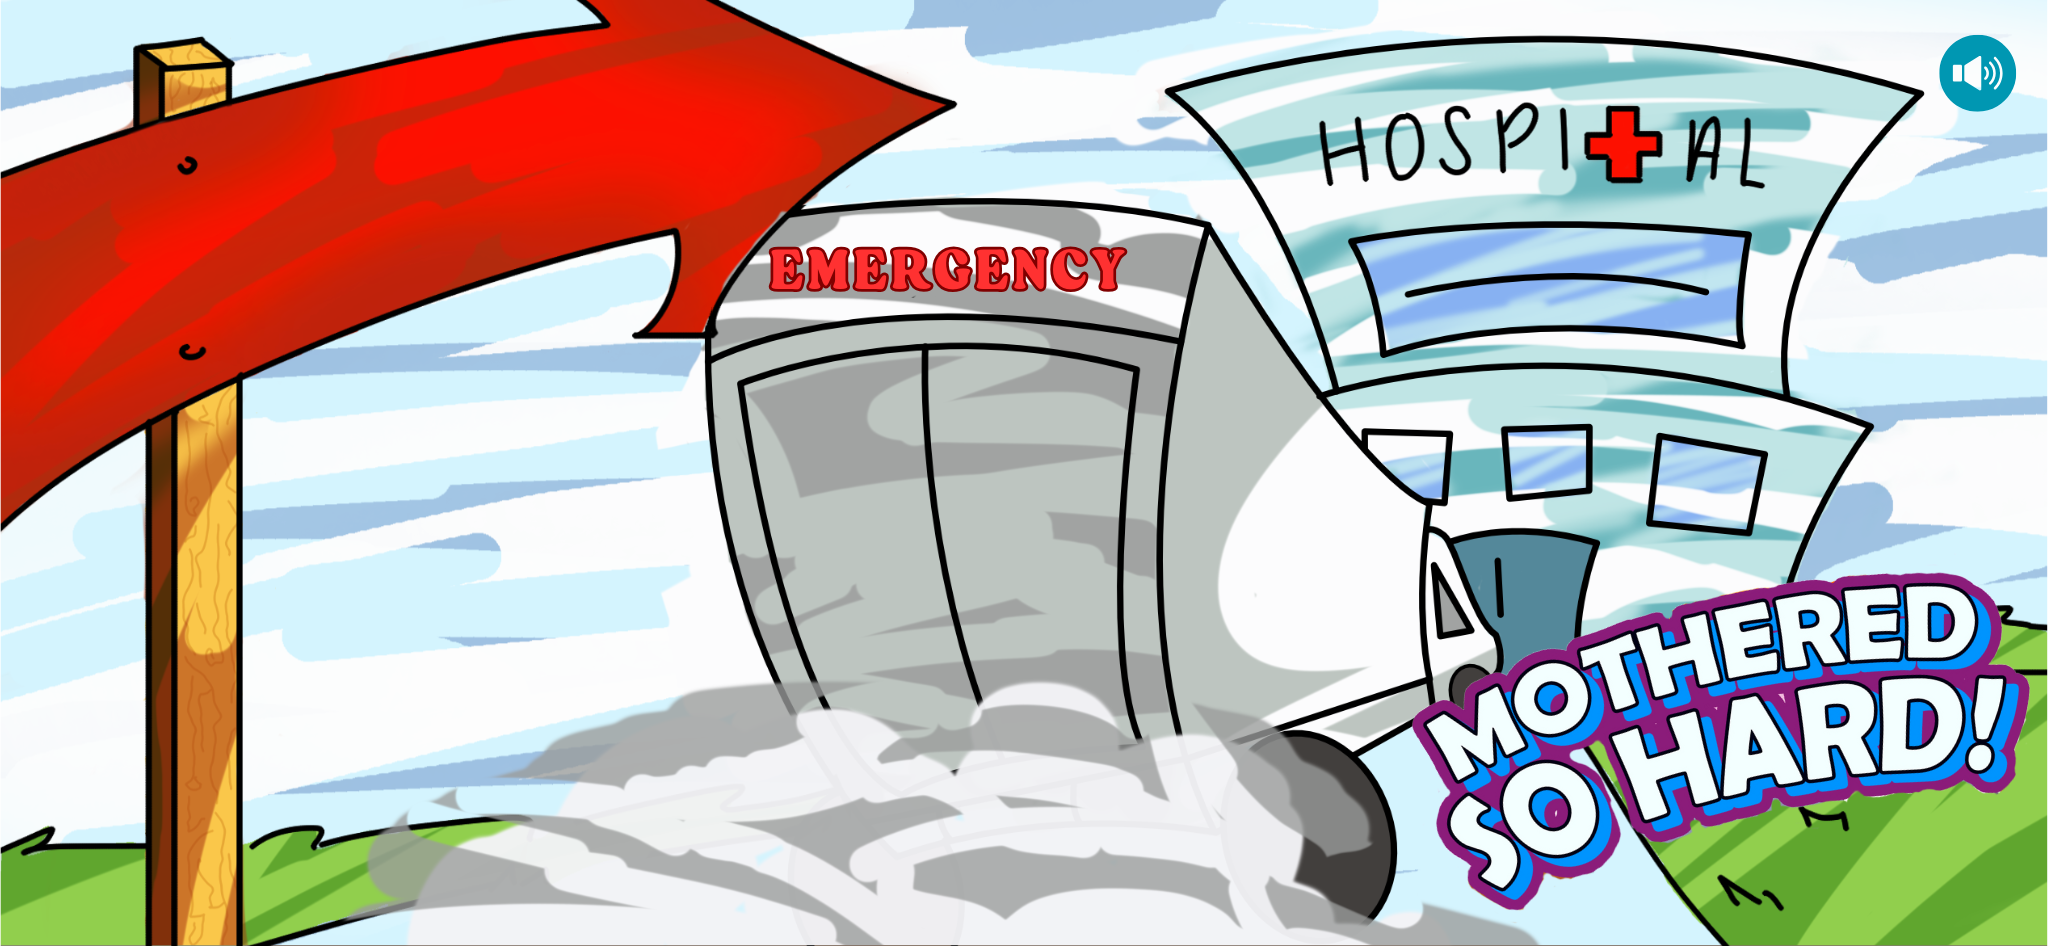
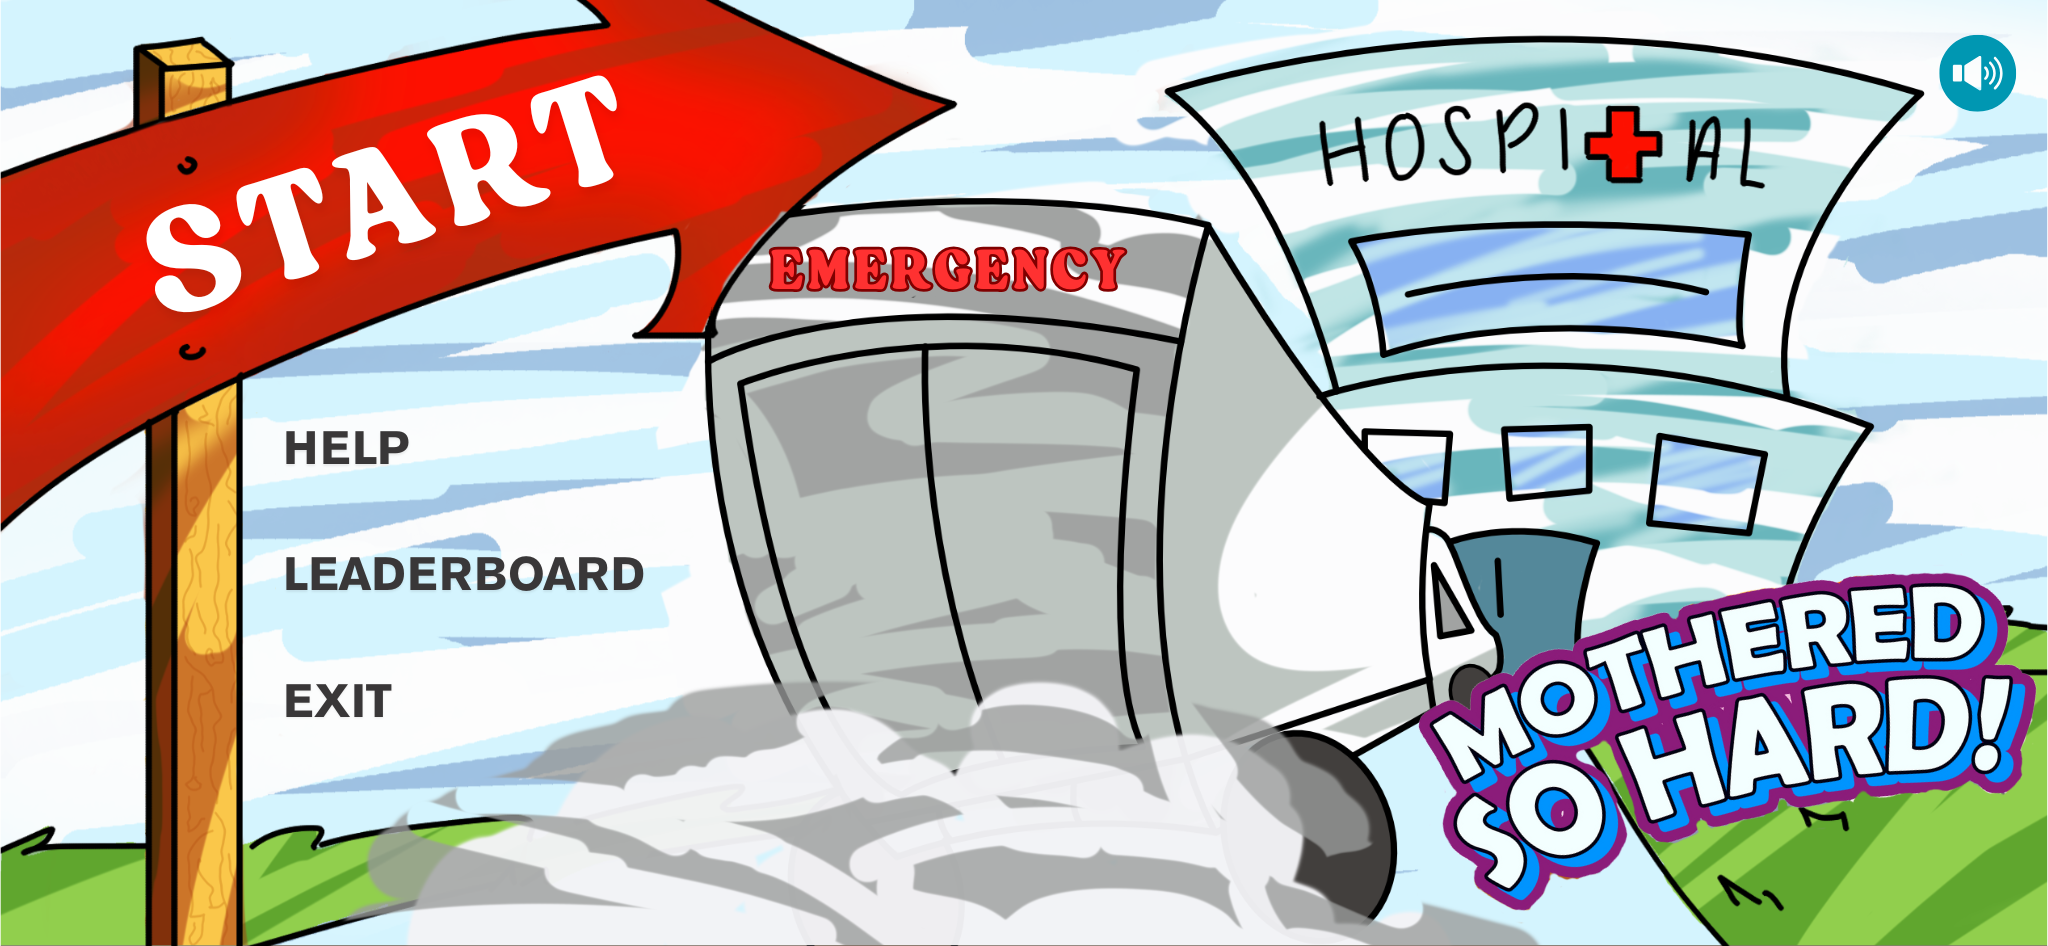
commit

diff --git a/index.html b/index.html
@@ -73,48 +73,55 @@
       z-index: -1;
     }
 
-    .menu-button {
-      position: absolute;
-      background: rgba(255, 0, 0, 0.3); /* Semi-transparent red for visibility */
-      border: 2px dashed white; /* White dashed border for visibility */
-      cursor: pointer;
-      z-index: 11;
-      transition: background 0.3s;
-    }
+/* Remove background/border for final version */
+.menu-button {
+   position: absolute;
+   /* --- Add color back --- */
+   background: rgba(255, 0, 0, 0.4); /* Semi-transparent red (Adjust 0.4 for more/less transparency) */
+   border: 1px solid white;       /* Optional: Add a thin white border */
+   /* --- Keep other styles --- */
+   cursor: pointer;
+   z-index: 11;
+   transition: background 0.3s;
+   padding: 0;
+   margin: 0;
+   overflow: hidden;
+   text-indent: -9999px;
+ }
 
-    .menu-button:hover {
-      background: rgba(0, 255, 0, 0.3); /* Change to green on hover for visibility */
-    }
+ /* Optional: Change hover effect slightly */
+ .menu-button:hover {
+    background: rgba(0, 255, 0, 0.5); /* Semi-transparent green on hover */
+ }
 
-    /* Precise button positioning */
-    #start-btn {
-      width: 40%;
-      height: 8%;
-      top: 30%;
-      left: 30%;
-    }
+ /* --- Keep the specific ID styles for positioning --- */
+ #start-btn { /* Red Arrow */
+   width: 40%;
+   height: 45%;
+   top: 2%;
+   left: 1%;
+ }
 
-    #help-btn {
-      width: 40%;
-      height: 8%;
-      top: 40%;
-      left: 30%;
-    }
+ #help-btn { /* EMERGENCY Sign */
+   width: 17%;
+   height: 12%;
+   top: 28%;
+   left: 41%;
+ }
 
-    #leaderboard-btn {
-      width: 40%;
-      height: 8%;
-      top: 50%;
-      left: 30%;
-    }
+ #leaderboard-btn { /* HOSPITAL Sign */
+   width: 33%;
+   height: 16%;
+   top: 7%;
+   left: 58%;
+ }
 
-    #exit-btn {
-      width: 40%;
-      height: 8%;
-      top: 60%;
-      left: 30%;
-    }
-
+ #exit-btn { /* MOTHERED SO HARD Text */
+   width: 28%;
+   height: 18%;
+   top: 75%;
+   left: 68%;
+ }
     .home-button {
       position: absolute;
       top: 2vw;
@@ -1054,9 +1061,33 @@
       }
     }
 
-    // Initialize button positions
-    window.addEventListener('load', windowResized);
-    window.addEventListener('resize', windowResized);
+// Add this function back into your <script>
+  function windowResized() {
+   // Resize the p5.js canvas to the new window dimensions
+   resizeCanvas(windowWidth, windowHeight);
+
+   // Recalculate positions that depend on canvas height/width
+   // (Taken from your original code - adjust if needed)
+   babyStartY = height / 2 + 50;
+   babyTargetY = height / 2 - 50;
+   if (babyDelivered) {
+     babyY = babyTargetY; // Keep baby at target if delivered
+   } else {
+      // Only reset babyY if the game hasn't started or baby isn't out yet.
+      // If the game is in progress but baby not delivered, might want to lerp instead
+      // or just let it be. Resetting might look jarring mid-game.
+      // For simplicity, we'll reset it like the original:
+      if (!started || !babyDelivered) {
+          babyY = babyStartY;
+      }
+   }
+    // Note: You don't need to adjust the HTML button positions here,
+    // CSS handles those automatically now.
+ }
+
+ // Add these lines back at the very end of your <script>
+ window.addEventListener('load', windowResized); // Call once on load to set initial size correctly
+ window.addEventListener('resize', windowResized); // Call whenever the window is resized
   </script>
 </body>
 </html>
